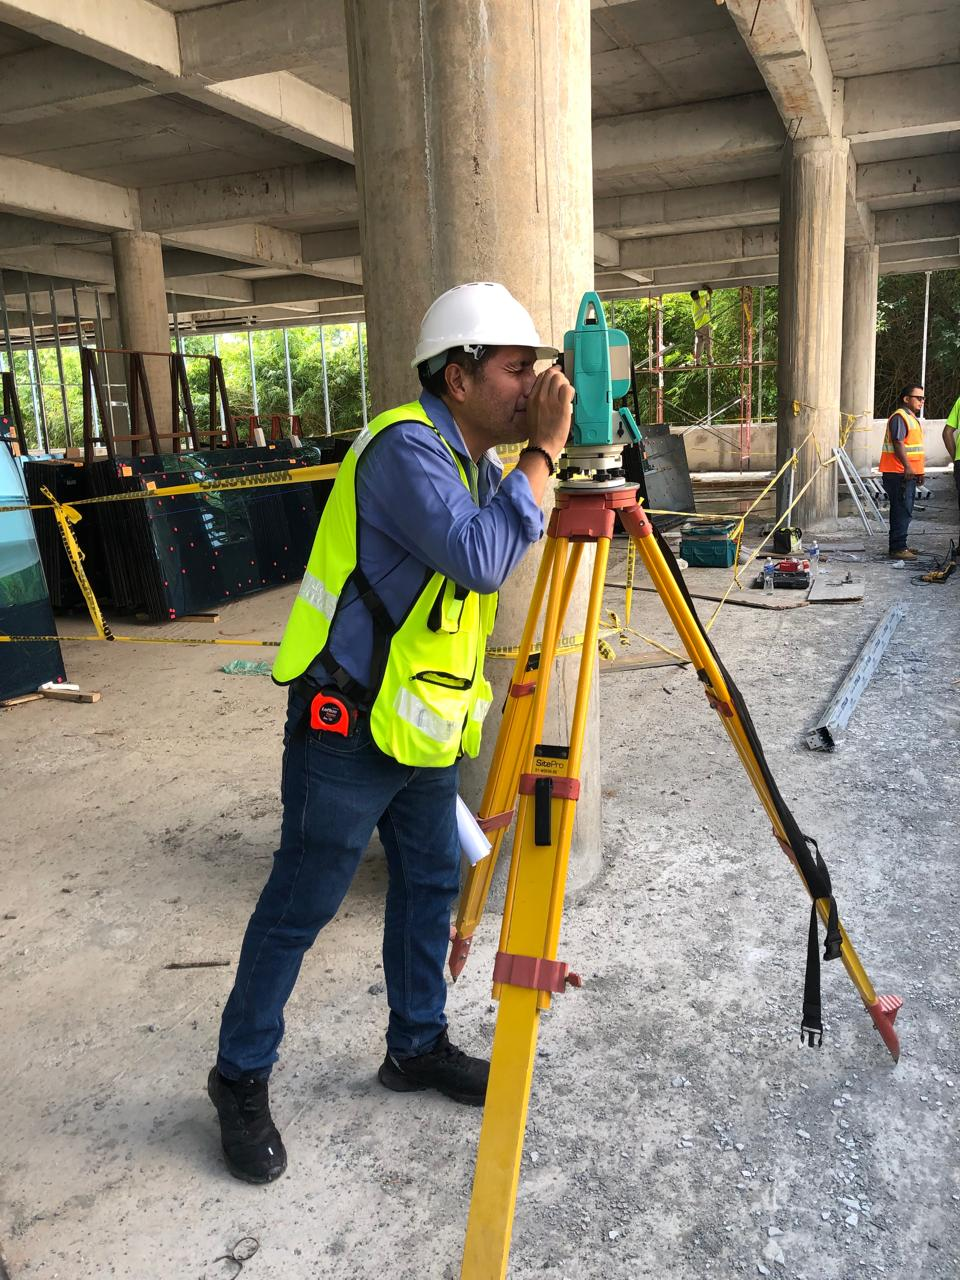
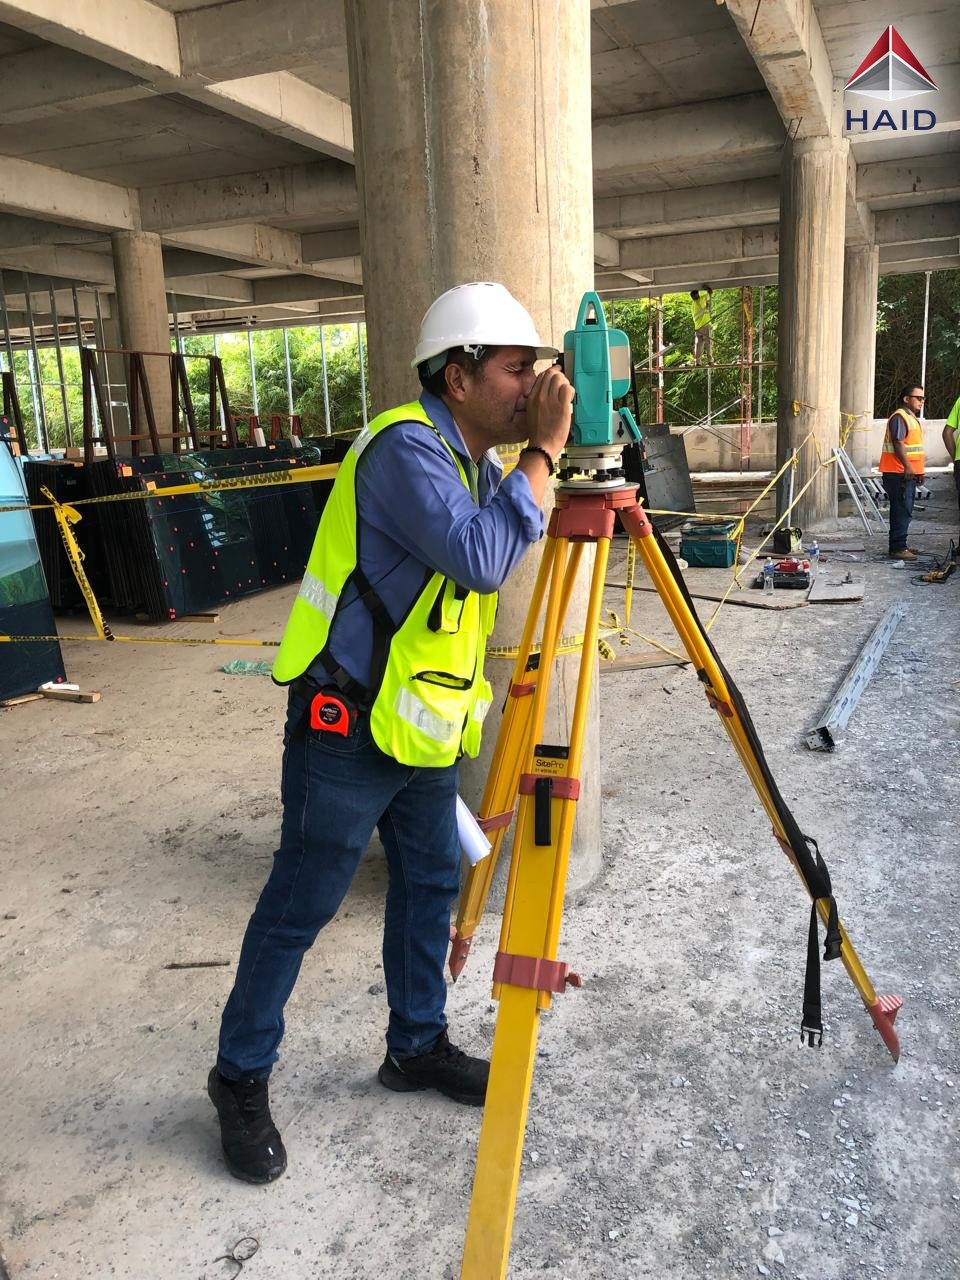
Marca de agua de HAID en las fotos que no la tenían
Desarrolladores, Dirección General y las dos fotos de equipo llevan
ahora el logo de HAID con un halo blanco suave, colocado en la zona que
el sitio muestra completa en todos los tamaños de pantalla (sin cortarlo
ni tapar a las personas). Todas incluyen metadatos EXIF de autor y
copyright. Las dos fotos PNG pasan a JPG (de ~1.5 MB a ~200 KB).

Las seis fotos de Sectores ya traían su propia marca de HAID y quedan
sin cambios; Residencial conserva la suya.

Claude-Session: https://claude.ai/code/session_01PTqhE5hS8kXzdY96w4DNw3

Changed region(s): [[0.8438, 0.0, 1.0, 0.125]]

diff --git a/index.html b/index.html
@@ -309,7 +309,7 @@ section{width:100%;}
 .dir-stat-l{font-size:0.7rem;color:rgba(255,255,255,0.6);text-transform:uppercase;letter-spacing:1px;margin-top:0.1rem;}
 .equipo-strip{display:grid;grid-template-columns:1fr 1fr;gap:1rem;margin-top:1rem;}
 .equipo-card{position:relative;overflow:hidden;}
-.equipo-card img{width:100%;height:200px;object-fit:cover;}
+.equipo-card img{width:100%;height:200px;object-fit:cover;object-position:right top;}
 .equipo-cap{position:absolute;bottom:0;left:0;right:0;background:linear-gradient(transparent,rgba(20,19,53,0.85));padding:1rem;}
 .equipo-cap p{font-size:0.8rem;color:#fff;font-weight:600;}
 .equipo-cap span{font-size:0.72rem;color:rgba(255,255,255,0.7);}
@@ -738,7 +738,7 @@ footer{background:#1e2d4a;border-top:3px solid var(--red);}
         </div>
       </div>
       <div class="dev-img reveal">
-        <img src="assets/img/desarrolladores.png" alt="Directora HAID supervisando desarrollo con vista a la ciudad" loading="lazy">
+        <img src="assets/img/desarrolladores.jpg" alt="Directora HAID supervisando desarrollo con vista a la ciudad" loading="lazy">
         <div class="dev-img-caption">
           <h4>Representamos al que invierte</h4>
           <p>No vendemos materiales ni construimos. Nuestro único compromiso es tu resultado.</p>
@@ -1007,7 +1007,7 @@ footer{background:#1e2d4a;border-top:3px solid var(--red);}
       </div>
       <div class="reveal">
         <div class="director-card">
-          <img src="assets/img/direccion-general.png" alt="Dirección General de HAID Project Management supervisando desarrollo con vista a la ciudad" loading="lazy">
+          <img src="assets/img/direccion-general.jpg" alt="Dirección General de HAID Project Management supervisando desarrollo con vista a la ciudad" loading="lazy">
           <div class="director-overlay">
             <h3>Dirección General</h3>
             <p>Director General · HAID Project Management</p>
